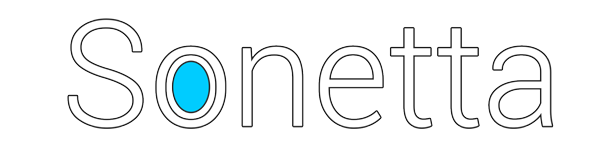
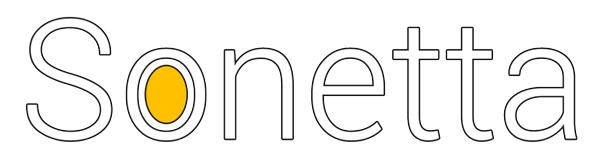
Refactored UI constants

diff --git a/core/assets/interfaces/default2/common/UI.qml b/core/assets/interfaces/default2/common/UI.qml
@@ -5,7 +5,6 @@ Item {
     readonly property int globalSpacing: 30
     readonly property string globalBackgroundPattern: "medium"
 
-    // Colors
     property QtObject colors: QtObject {
         readonly property color light: "#292929"
         readonly property color medium: "#202020"
@@ -13,23 +12,25 @@ Item {
 
         readonly property color text: "#ffffff"
         readonly property color label: "#999999"
+        readonly property color highlight: "#ffc000"
     }
 
-    // Fonts
     property QtObject fonts: QtObject {
         readonly property font standard: Qt.font({ family: "Roboto", pointSize: 23, weight: 40 })
         readonly property font disclaimer: Qt.font({ family: "Roboto", pointSize: 17, weight: 40 })
         readonly property font header: Qt.font({ family: "Roboto", pointSize: 32, weight: 50 })
     }
 
-    // Box
-    readonly property string boxBackgroundPattern: "dark"
-    readonly property color boxBorderColor: colors.light
-    readonly property int boxBorderWidth: 1
+    property QtObject box: QtObject {
+        readonly property string backgroundPattern: "dark"
+        readonly property color borderColor: colors.light
+        readonly property int borderWidth: 1
+    }
 
-    // Menu items
-    readonly property int menuDefaultWidth: 400
-    readonly property int menuDefaultHeight: 60
-    readonly property int menuHorizontalMargins: globalSpacing
-    readonly property int menuVerticalMargins: globalSpacing / 2
+    property QtObject menu: QtObject {
+        readonly property int defaultWidth: 400
+        readonly property int defaultHeight: 60
+        readonly property int horizontalMargins: globalSpacing
+        readonly property int verticalMargins: globalSpacing / 2
+    }
 }

diff --git a/core/assets/interfaces/default2/common/MenuItem.qml b/core/assets/interfaces/default2/common/MenuItem.qml
@@ -4,17 +4,17 @@ import "."
 
 Box {
     property alias text: textElement.text
-    width: UI.menuDefaultWidth
-    height: textElement.height + 2 * UI.menuVerticalMargins
+    width: UI.menu.defaultWidth
+    height: textElement.height + 2 * UI.menu.verticalMargins
 
     Text {
         id: textElement
-        y: UI.menuVerticalMargins
+        y: UI.menu.verticalMargins
         anchors {
             left: parent.left
             right: parent.right
-            leftMargin: UI.menuHorizontalMargins
-            rightMargin: UI.menuHorizontalMargins
+            leftMargin: UI.menu.horizontalMargins
+            rightMargin: UI.menu.horizontalMargins
         }
 
         font: UI.fonts.standard

diff --git a/core/assets/interfaces/default2/common/Box.qml b/core/assets/interfaces/default2/common/Box.qml
@@ -3,13 +3,13 @@ import QtQuick 2.2
 import "."
 
 Rectangle {
-    border.color: UI.boxBorderColor
-    border.width: UI.boxBorderWidth
+    border.color: UI.box.borderColor
+    border.width: UI.box.borderWidth
     color: "transparent"
 
     Pattern {
         anchors.fill: parent
         anchors.margins: parent.border.width
-        pattern: UI.boxBackgroundPattern
+        pattern: UI.box.backgroundPattern
     }
 }

diff --git a/core/assets/interfaces/default2/login/login.qml b/core/assets/interfaces/default2/login/login.qml
@@ -83,7 +83,7 @@ FocusScope {
     Rectangle {
         id: separator
         width: 2
-        color: UI.boxBorderColor
+        color: UI.box.borderColor
         anchors.centerIn: root
     }
 
